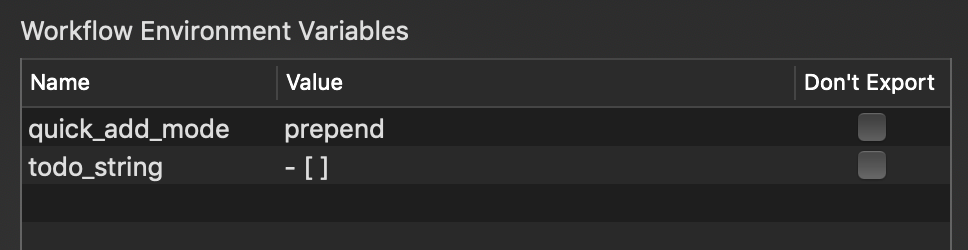
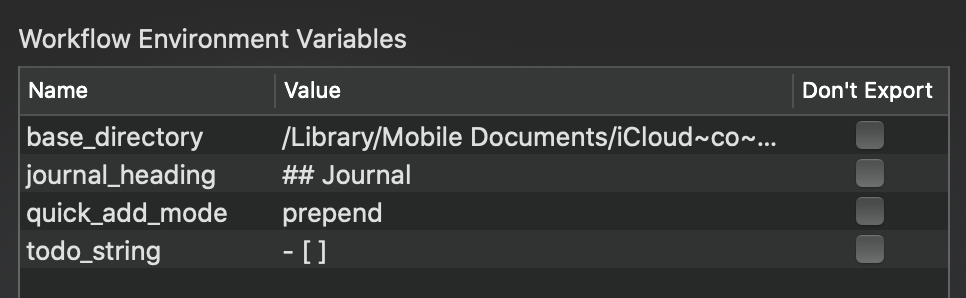
Bumped version number

diff --git a/README.md b/README.md
@@ -18,6 +18,11 @@ You can then change the values of workflow environment variables:
 
 ![workflow environment variables](docs/alfred_workflow_environment_variables.png)
 
+### Changing the notes location from iCloud to Dropbox etc.
+
+If you're not using iCloud for syncing your notes, you can change the `base_directory` environment variable to the **relative path** of wherever your notes are stored.
+
+For example, if your notes are under `/Users/foo/Dropbox`, change `base_directory` to `/Dropbox`, or wherever they happen to be under your home holder.
 
 ## Open note
 

diff --git a/VERSION.md b/VERSION.md
@@ -1,5 +1,12 @@
 # Versions
 
+## 0.6.0
+
+Quick open fix, Dropbox support
+
+* FIX: #3 - quick open works when notes are present without a heading _(but can't open them)_
+* NEW: #12 - Change change the notes directory to support other sync services like Dropbox
+
 ## 0.5.0
 
 Journal Summary
